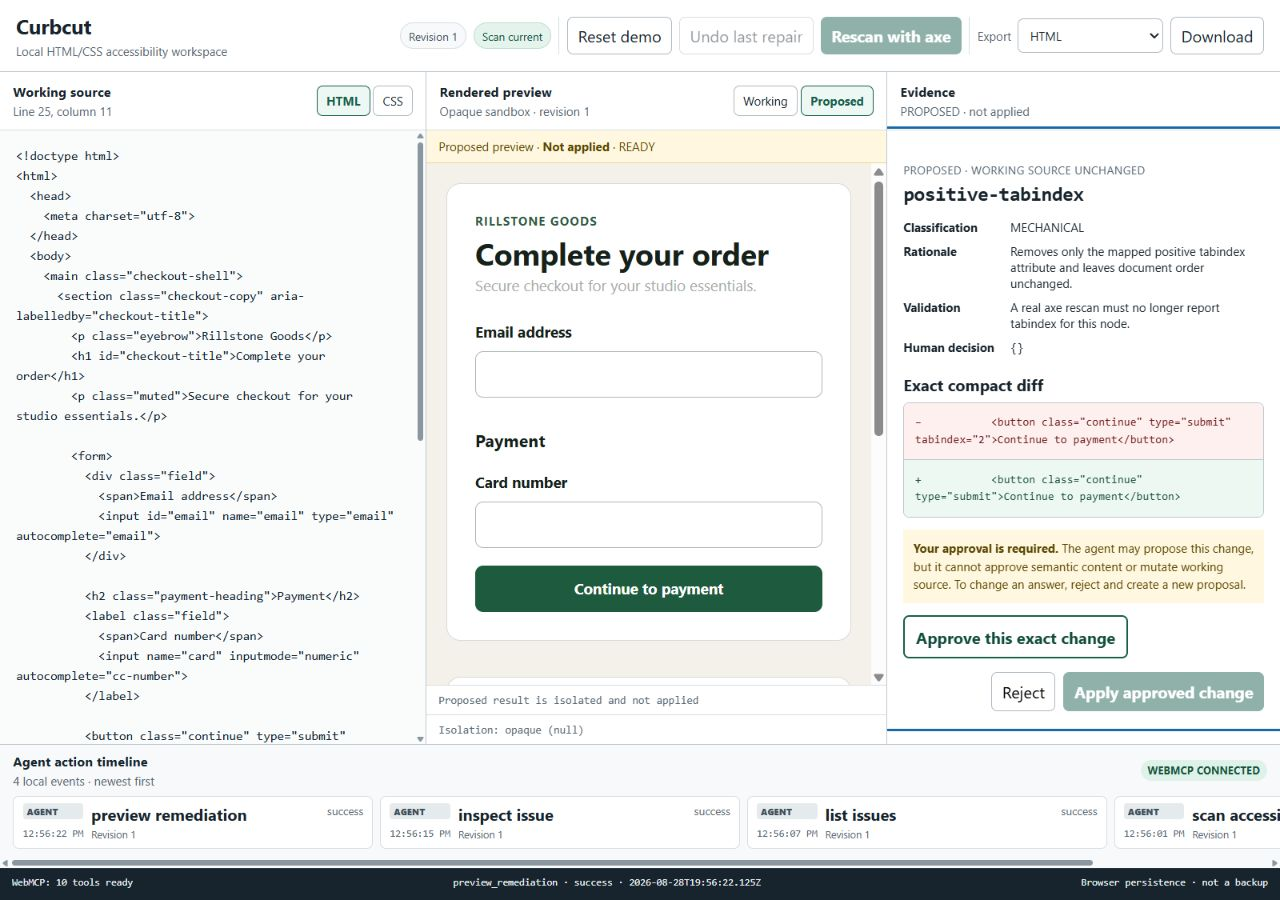
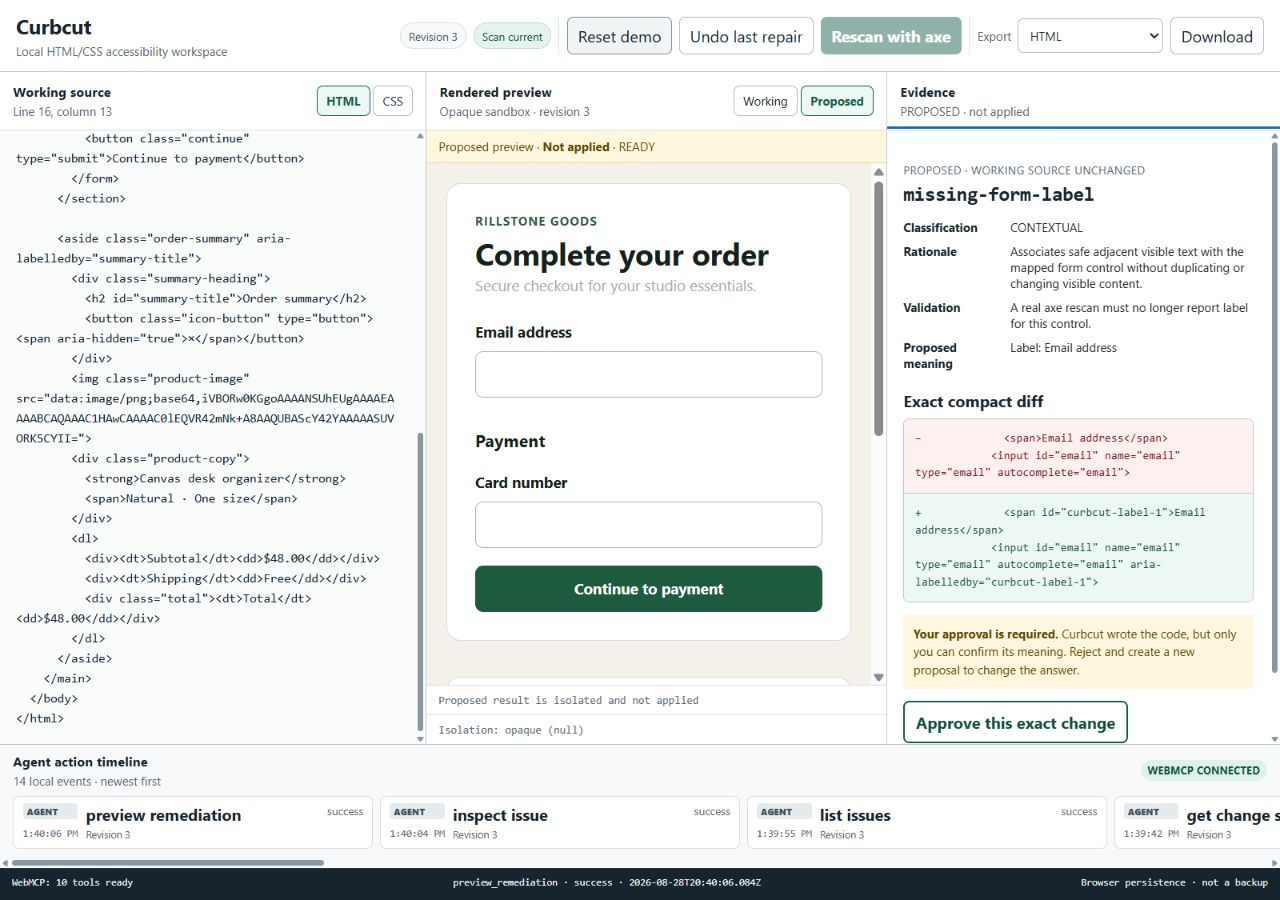
docs: capture conditional authority evidence

diff --git a/src/App.tsx b/src/App.tsx
@@ -279,7 +279,7 @@ function IssueList() {
         >
           <span className={`impact impact-${issue.impact ?? 'unknown'}`}>{issue.impact ?? 'unknown'}</span>
           <strong>{issue.ruleId}</strong>
-          <span>{classificationLabel(issue.classification)}</span>
+          <span>{issueActionLabel(issue)}</span>
           <span>{issue.sourceNode ? `Line ${issue.sourceNode.sourceRange.startLine}` : 'Unmapped'}</span>
         </button>
       ))}
@@ -454,9 +454,17 @@ function familyFor(issue: AccessibilityIssue): RepairFamily | null {
 }
 
 function classificationLabel(classification: AccessibilityIssue['classification']) {
-  if (classification === 'MECHANICAL') return 'Mechanical repair'
-  if (classification === 'CONTEXTUAL') return 'Needs your decision'
+  if (classification === 'MECHANICAL') return 'Mechanical'
+  if (classification === 'CONTEXTUAL') return 'Contextual'
   return 'Manual review'
+}
+
+function issueActionLabel(issue: AccessibilityIssue) {
+  const family = familyFor(issue)
+  if (family === 'positive-tabindex') return 'Code fix ready'
+  if (family) return 'Code preview · approval'
+  if (issue.classification === 'CONTEXTUAL') return 'Context needed'
+  return 'Evidence only'
 }
 
 function formatTime(timestamp: string) {

diff --git a/e2e/m3.spec.ts b/e2e/m3.spec.ts
@@ -21,6 +21,10 @@ test('freezes the checkout fixture and completes label Apply/rescan/Undo', async
   await expect(page.locator('.issue-row .impact')).toHaveText([
     'critical', 'serious', 'serious', 'critical', 'critical', 'serious',
   ])
+  await expect(issue(page, 'tabindex')).toContainText('Code fix ready')
+  await expect(issue(page, 'label')).toContainText('Code preview · approval')
+  await expect(issue(page, 'button-name')).toContainText('Context needed')
+  await expect(issue(page, 'color-contrast')).toContainText('Evidence only')
 
   const editor = page.getByLabel('Editable HTML source')
   const before = await editor.inputValue()

diff --git a/docs/M7_REPORT.md b/docs/M7_REPORT.md
@@ -6,7 +6,7 @@ Date: August 28, 2026 (PT)
 
 - **Deterministic eval corpus and conditional-authority validation: PASS**
 - **ChatGPT in-app browser discovery, scan, list, inspect, and preview: PASS**
-- **Target-client mechanical Apply and contextual approval rehearsal: pending the conditional-authority deployment**
+- **ChatGPT in-app browser mechanical Apply/rescan and contextual approval gate: PASS**
 - **Optional automated OpenAI trajectory corpus: pending a valid `OPENAI_API_KEY`**
 - **M7 deterministic release evidence: COMPLETE**
 
@@ -31,9 +31,9 @@ Each expected tool call has a bounded mock output shaped like Curbcut's parsed W
 - any count other than 27 cases / 9 intents / 3 paraphrases;
 - duplicate cases, unknown tools, malformed calls, or more than six expected steps;
 - absent, oversized, source-leaking, or invalid mock outputs;
-- baseline/Undo scan metrics that differ from 3 critical, 3 serious, 0 moderate, and 5 outstanding manual reviews;
-- post-label scan/summary metrics that differ from 2 critical, 3 serious, 0 moderate, 5 open critical-or-serious issues, and 4 outstanding manual reviews;
-- post-mechanical scan metrics that differ from 3 critical, 2 serious, 0 moderate, and 5 outstanding manual reviews;
+- baseline/Undo scan metrics that differ from 3 critical, 3 serious, 0 moderate, and 5 outstanding human-decision/manual-review items;
+- post-label scan/summary metrics that differ from 2 critical, 3 serious, 0 moderate, 5 open critical-or-serious issues, and 4 outstanding human-decision/manual-review items;
+- post-mechanical scan metrics that differ from 3 critical, 2 serious, 0 moderate, and 5 outstanding human-decision/manual-review items;
 - a six-finding high-impact list that omits the serious mechanical `tabindex` issue;
 - contextual Apply outside `apply_after_approval` or before a mocked `APPROVED` proposal;
 - mechanical Apply before a visible exact `MECHANICAL` proposal;
@@ -70,7 +70,7 @@ npm run build
 production build passed
 ```
 
-The build retains the known non-failing warning for the locally bundled axe/controller chunk: 1,045.95 kB JavaScript, 300.46 kB gzip in this run.
+The build retains the known non-failing warning for the locally bundled axe/controller chunk: 1,047.39 kB JavaScript, 300.70 kB gzip in this run.
 
 ## Optional automated OpenAI corpus
 
@@ -89,16 +89,17 @@ Current release evidence is the deterministic corpus validator, live-schema drif
 
 ## Final HTTPS target-client smoke
 
-On August 28, 2026, the previous approval-for-all production deployment at <https://curbcut-one.vercel.app> was exercised in ChatGPT's in-app browser:
+On August 28, 2026, deployment `dpl_Bdcq6rVwWLW5LT2sY7iQFXCsBbW9` at <https://curbcut-one.vercel.app> was exercised in ChatGPT's in-app browser:
 
 - all ten page-defined WebMCP tools were discovered with the expected schemas and annotations;
-- `scan_accessibility` returned 6 rules / 6 affected nodes: 3 critical, 3 serious, 0 moderate, and 0 minor;
-- `list_issues` found the serious mechanical `tabindex` issue;
-- `inspect_issue` selected and highlighted the rendered button while returning source line 25, column 11, offsets 768–848;
-- `preview_remediation` created one non-mutating `remove_positive_tabindex` patch and stopped in `PROPOSED`;
+- `list_issues` found the serious mechanical `tabindex` issue and `inspect_issue` mapped it to line 25, column 11, offsets 768–848;
+- `preview_remediation` returned `approvalRequired:false`, `agentMayApply:true`, and exposed `apply_remediation` as the next action while leaving source unchanged;
+- the agent applied the exact mechanical proposal without a redundant approval, then a real axe rescan verified the `tabindex` finding was gone: 5 rules / 5 affected nodes, 3 critical and 2 serious;
+- `get_change_summary` reported one applied and verified `positive-tabindex` change;
+- the label proposal reused adjacent visible text (`Email address`) with two surgical edits (`id` plus `aria-labelledby`) and no duplicate visible label, returned `approvalRequired:true` and `agentMayApply:false`, and did not expose Apply before visible human approval;
 - the browser console contained no errors.
 
-That smoke predates the conditional-authority change and is retained only as historical evidence. The replacement deployment must prove direct mechanical Apply/rescan/Undo and a separately blocked contextual Apply before this section can be marked current.
+The target browser separately refused a speculative Undo because the user had not requested it. This is expected client safety behavior, not a Curbcut error; explicit-user Undo remains covered by the 15-test browser suite and the final narrated rehearsal.
 
 ## Limits
 

diff --git a/docs/SUBMISSION_DRAFT.md b/docs/SUBMISSION_DRAFT.md
@@ -85,8 +85,9 @@ TODO before submission: insert measured WebMCP evaluation results only after the
 - [ ] Show real tool discovery/calls, not a simulated invocation.
 - [ ] Show scan evidence, synchronized source/preview focus, direct mechanical Apply, contextual visible approval, rescan, semantic review, and summary/export or Undo.
 - [x] Capture a current scanned-workspace screenshot.
+- [x] Capture a current mechanical-diff/direct-Apply screenshot.
 - [x] Capture a current proposed-diff/render/approval screenshot.
-- [ ] Capture a current verified-result/timeline screenshot.
+- [x] Capture a current verified-result/timeline screenshot.
 - [ ] Use narration only or properly licensed audio; do not add third-party trademarks or copyrighted music.
 
 ## Final submission checklist

diff --git a/README.md b/README.md
@@ -23,7 +23,17 @@ The agent handles repetitive scanning, filtering, source lookup, proposal prepar
 
 ![Curbcut scanned workspace](./docs/curbcut-scanned-workspace.png)
 
+Mechanical proposal: visible exact diff, immediately agent-applicable, and reversible.
+
+![Curbcut mechanical remediation preview](./docs/curbcut-mechanical-preview.png)
+
+Contextual proposal: code is prepared from a safe visible-text candidate, but semantic approval remains human-only.
+
 ![Curbcut non-mutating remediation preview](./docs/curbcut-remediation-preview.png)
+
+Mechanical verification: the real axe rescan removes the repaired finding and records the change in the shared timeline.
+
+![Curbcut verified mechanical repair](./docs/curbcut-verified-mechanical.png)
 
 ## Judge quick start
 
